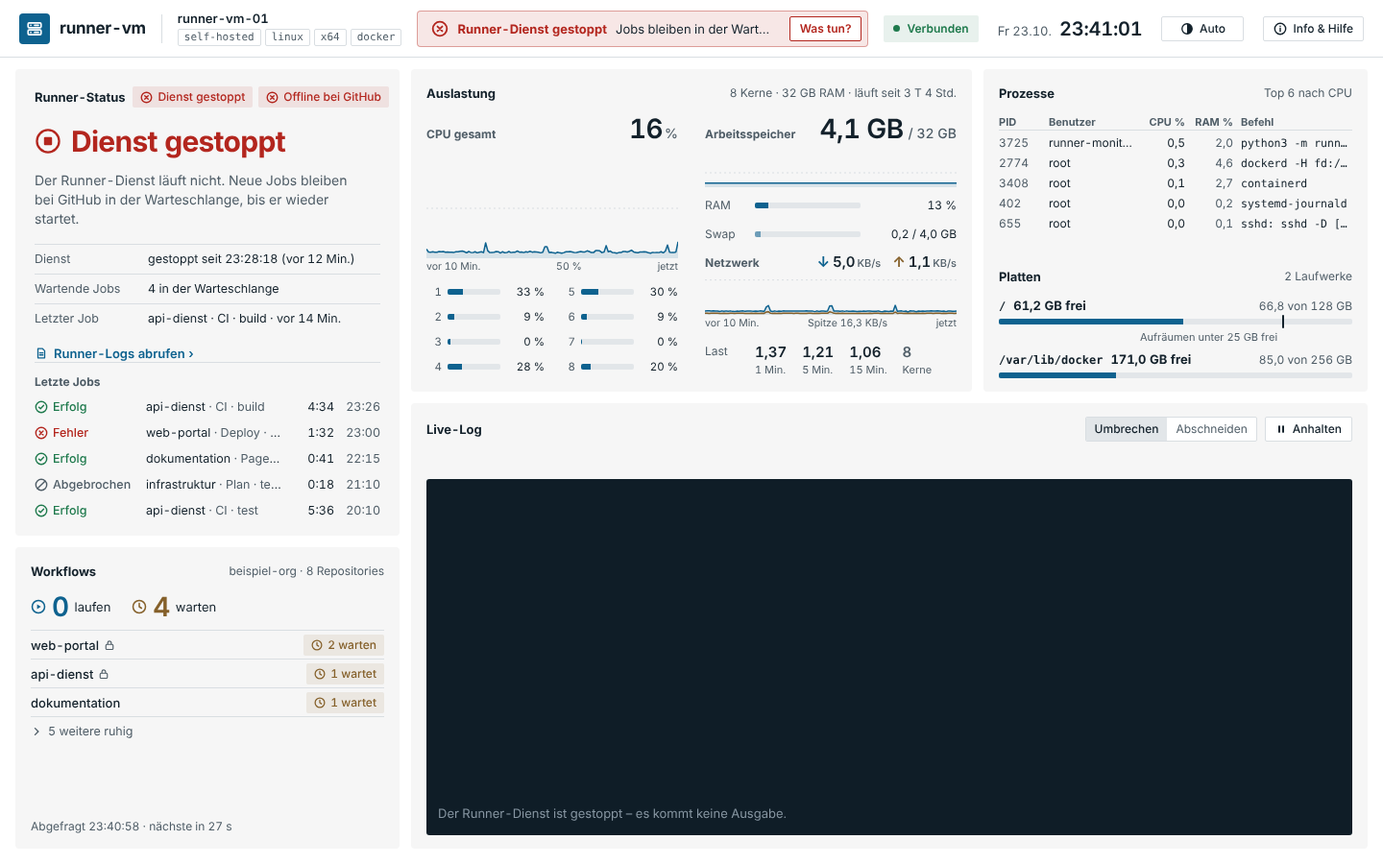
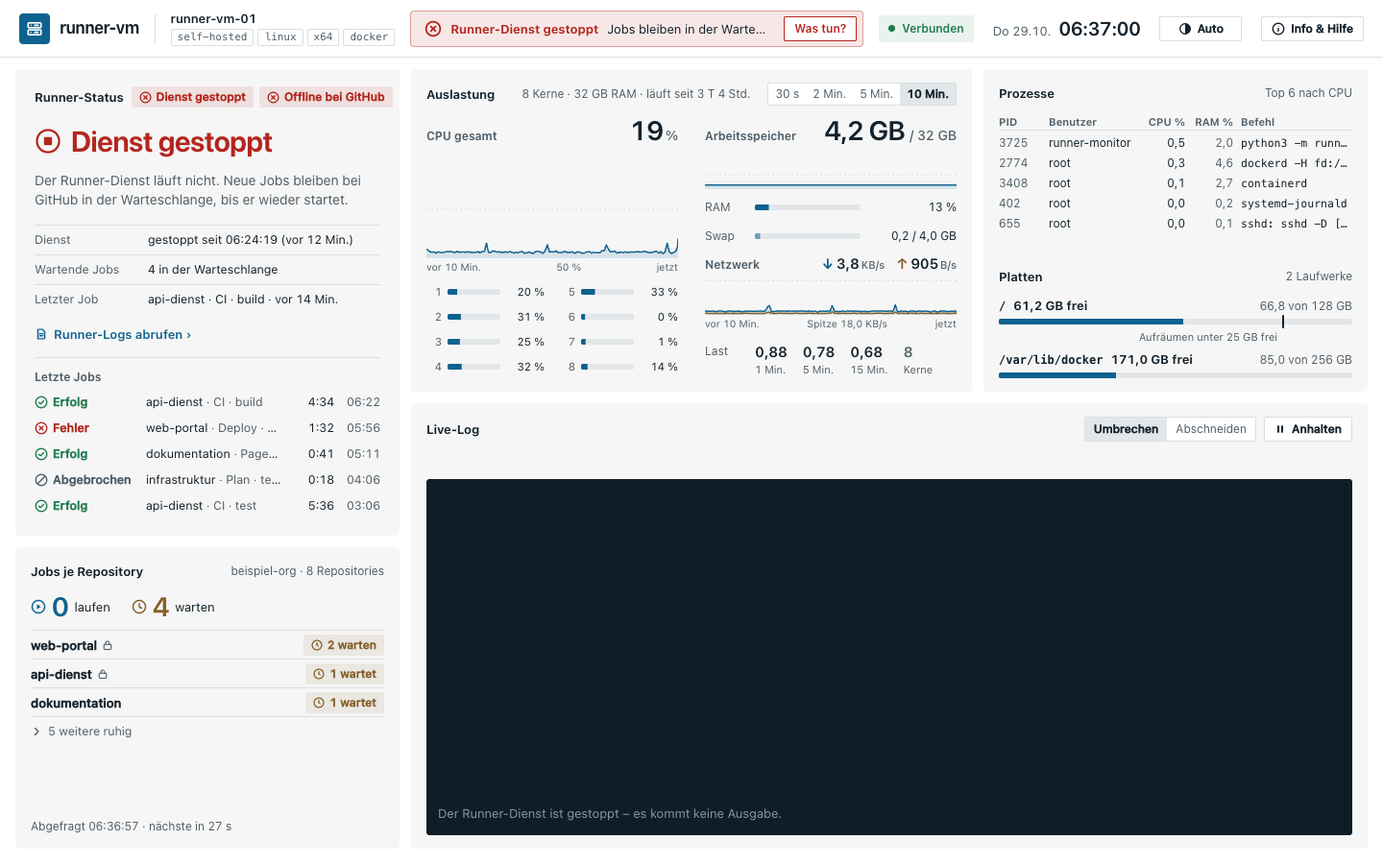
Handbuch und Bildschirmfotos auf Design 0.8.0 (#101)

diff --git a/entwickler-dashboard/daten.js b/entwickler-dashboard/daten.js
@@ -13,7 +13,7 @@
  *               Entscheidungen: "entschieden", "zurückgestellt", sonst offen.
  */
 window.RUNNER_MONITOR = {
-  stand: "29.10.2026 03:41",
+  stand: "29.10.2026 06:39",
 
   dienste: [
     { name: "Runner-Monitor lokal (Demo)", url: "http://127.0.0.1:8090/?demo", pruefen: "http://127.0.0.1:8090/api/health", gruppe: "Runner-Monitor" },
@@ -261,6 +261,7 @@ window.RUNNER_MONITOR = {
   ],
 
   verlauf: [
+    { datum: "29.10.2026 06:39", text: "#101 umgesetzt (PR offen): Handbuch (Kapitel 1–4), Funktionsweise (Stand) und docs/design/README.md auf Design 0.8.0; vier neue Bildschirmfotos (mehrere Runner mit Zeitraum, Grundüberwachung, Info › Runner, Englisch), übrige neu aufgenommen; werkzeuge/bilder.mjs mit Sprachwahl je Seite." },
     { datum: "29.10.2026 03:41", text: "Review PR #125 (#120) eingearbeitet, rebased auf develop mit #121/#118: E-25 → E-26 umnummeriert; Fehlermeldung nach entferntem altem Token sagt „bereits entfernt – bitte erneut ausführen“; „Server nicht gefunden“ aus neuem Adapter-Feld ursache (kein-dienst | weiterleitung, Forgejo/Gitea/GitLab) statt Textvergleich, Test gegen lokale Fake-Server bindet die Felder; Runner weder erkannt noch in runner.json: klarer Hinweis und Rückfrage statt stillem Rückfall auf „nur Token“; Hinweis auf wartenden Auftrag runner-zuordnung; Doku zu altem Token ohne Server und zu GitLab im Sammler (#115) angepasst." },
     { datum: "29.10.2026 03:23", text: "#120 umgesetzt (PR offen): einrichten.sh zugang <runner> fragt für Forgejo, Gitea und GitLab Server (https; http nur nach Rückfrage → http_erlaubt), Organisation (nicht GitLab) und Token ab; Prüfen und Schreiben in runner_monitor/anbieter/anbindung.py mit den Regeln der Erkennung (runner.json atomar, nur root, kein Symlink, andere Felder bleiben; Token über stdin nach zugang/<id>.token). Neue Adresse = neues Token Pflicht, Reihenfolge altes Token löschen → runner.json → neues Token, Sammler ruht dabei; Stand „Grundüberwachung“ auf Rückfrage aufheben; danach Verbindungsprüfung über den Adapter (ok/Token ungültig/keine Rechte/nicht erreichbar/Server nicht gefunden, Frist 40 s). E-26 (bitte bestätigen), Sicherheitsbericht S-ZUGANG-01, Doku EINRICHTUNG/FUNKTIONSWEISE, tests/test_anbindung.py; Bash-Ablauf zusätzlich in einem Pseudo-Terminal durchgespielt." },
     { datum: "29.10.2026 03:39", text: "Review PR #124 (#97, #123) eingearbeitet, rebased auf develop mit #118 und #121 (Meldungs-Titel je Dienst von #121 übernommen, Zustand „ausstehend“ in Verbindungen): Reiter und „+N“-Liste stufen einen veralteten Stand wie die Karte auf „Unbekannt“ herab (RUNNER.zustand mit Zeitpunkt); Offline-Meldung ohne Präfix nennt den Dienst; Token „hinterlegt“ ohne „nur lesend“, „Rechte (nötig)“; Demo ohne erfundenes Ablaufdatum für Forgejo/Gitea/GitLab; Platzhalter in Befehlen sichtbar (RUNNER, SERVER, ORGANISATION, UNIT) statt spitzer Klammern oder beispiel-org; Runner-ID-Regel wie einrichten.sh; Anrede neutral; Dienstname in runnerVersion nicht doppelt; Doku (Alter des Stands im Dashboard-Kapitel, Wieder anzeigen)." },

diff --git a/docs/design/README.md b/docs/design/README.md
@@ -1,31 +1,46 @@
 # Design
 
-**Stand: 23.10.2026 · Design v0.4.0**
+**Stand: 29.10.2026 · Design v0.8.0**
 
-**Design v0.4.0** – aus Claude Design, Grundlage für Version 0.4.0. Die Dateien liegen in
-[`v0.4.0/`](v0.4.0/) (`*.dc.html`, Design-Canvas-Format, mit `support.js`), die Umsetzungshinweise
-in [`v0.4.0/Umsetzung 0.4.0.md`](v0.4.0/Umsetzung%200.4.0.md):
+**Design v0.8.0** – aus Claude Design, Grundlage für Version 0.8.0 (anbieterunabhängig, mehrere Runner).
+Die Dateien liegen in [`v0.8.0/`](v0.8.0/) (`*.dc.html`, Design-Canvas-Format, mit `support.js`), die
+Umsetzungshinweise in [`v0.8.0/README.md`](v0.8.0/README.md) (Handoff), die Wörterbuchvorlage in `i18n-0.8.0.js`:
 
 | Datei | Inhalt |
 |---|---|
-| `Runner-Monitor 0.4.0.dc.html` | Übersicht aller Bildschirme mit Notiz „Was ist neu“ und Optionen (Zustand, GitHub, Netzwerk-Variante, Kerne, Log, Update, Info-Blatt, **Schrittliste**, **Verlaufslänge**) |
-| `Main 0.4.0.dc.html` | Dashboard als Live-Prototyp inkl. Info & Hilfe |
-| `Setup-Skript 0.4.0.dc.html` | Ausgabe von `einrichten.sh` |
-| `Setup-Web 0.4.0.dc.html` | Einrichtung im Browser, Schritte 1–4 |
-| `Login 0.4.0.dc.html` | Anmeldung |
-| `ds/bamberger-it-services/tokens.json` | Designsystem „Bamberger IT Services“ |
+| `Runner-Monitor 0.8.0.dc.html` | Übersicht aller Bildschirme mit Notiz „Design 0.8.0 · was ist neu“ und Optionen (Zustand, Runner-Anzahl, gewählter Runner, Sprache, Thema) |
+| `Main 0.8.0.dc.html` | Dashboard als Live-Prototyp inkl. Info & Hilfe (Runner, Verbindungen, Sprache, Fehler/Idee) |
+| `Dashboard-Varianten 0.8.0.dc.html` | Varianten A/B/C für mehrere Runner (gewählt: C, Reiter) |
+| `Setup-Skript 0.8.0.dc.html` | Ausgabe von `einrichten.sh` mit „Runner auf dieser VM“ |
+| `Setup-Web 0.8.0.dc.html` | Einrichtung im Browser, fünf Schritte (Code, Zugang, Runner, Anbinden, Fertig) |
+| `Login 0.8.0.dc.html` | Anmeldung |
+| `i18n-0.8.0.js` | Wörterbuch Deutsch → Englisch |
 
-Öffnen: die `.dc.html` im Browser (lädt React von unpkg.com). Ältere Fassungen liegen nur noch in
+Design v0.4.0 (Grundlage bis Version 0.7.0) liegt weiter in [`v0.4.0/`](v0.4.0/); alles, was 0.8.0 nicht
+ändert (Raster, Karten, Pillen, kv-Zeilen, Meldungen, Info-Blatt-Stil), gilt unverändert. Ältere Fassungen liegen nur noch in
 den Tags: Design v0.3.0 in [`v0.3.1`](https://github.com/Bamberger-IT-Services/Self-Hosted-Github-Runner-Monitor/tree/v0.3.1/docs/design/v0.3.0),
 Design v1 in [`v0.1.2`](https://github.com/Bamberger-IT-Services/Self-Hosted-Github-Runner-Monitor/tree/v0.1.2/docs/design/v1).
 Bildschirmfotos aus dem Betrieb, die zum Entwurf gehörten, liegen bewusst nicht im Repository
-(öffentlich, echte Daten).
+(öffentlich, echte Daten); die Handbuchbilder entstehen aus Demo-Daten (`node werkzeuge/bilder.mjs`).
 
 Grundlage: Designsystem „Bamberger IT Services“ (Farben, Radien), Schrift = Systemschrift,
 Bewegung nach Apple-Prinzipien (kritisch gedämpfte Federn, `prefers-reduced-motion`).
 Farben und Maße: [TOKENS.md](TOKENS.md).
 
-Planung nach Anweisung 08: Epic [#42 „Design v0.4.0 umsetzen“](https://github.com/Bamberger-IT-Services/Self-Hosted-Github-Runner-Monitor/issues/42).
+Planung nach Anweisung 08: Epic #100 „Design 0.8.0 umsetzen“ (Teil-Issues #89–#99, #101).
+
+## Was 0.8.0 gegenüber 0.4.0 ändert
+
+1. **Verlauf mit festen Zeitfenstern** (#89): Zeitraum-Umschalter 30 s / 2 / 5 / 10 Min., Eimer an der absoluten Sekunde.
+2. **Sprache** (#90): Automatisch / Deutsch / English.
+3. **Runner-Erkennung** (#91) und **Anbieter-Adapter** mit Fähigkeiten (#92, #93, #99, #115): GitHub, Forgejo, Gitea, GitLab, unbekannt.
+4. **Dashboard mit mehreren Runnern** (#94): Reiter an der Runner-Spalte, „+N“, Meldungen mit Runner.
+5. **Grundüberwachung und „teilweise“** (#95): Journal-Log, „Jobs nicht verfügbar“, „Schritte nicht verfügbar“.
+6. **Einrichtung im Browser** in fünf Schritten (#96) und **Info & Hilfe** 890 px zweispaltig mit Runner und Verbindungen (#97, #123).
+7. **Fehler/Idee per E-Mail** statt GitHub-Issues (#98).
+8. **Handbuch, Funktionsweise und Bildschirmfotos** auf diesen Stand (#101); Einrichtungsskript `einrichten.sh zugang` (#120, nicht gezeichnet).
+
+Was 0.4.0 gegenüber 0.3.0 ändert, steht unten und gilt weiter.
 
 ## Was 0.4.0 gegenüber 0.3.0 ändert
 
@@ -75,21 +90,22 @@ Was 0.3.0 gegenüber v1 geändert hat, steht unten und gilt weiter.
 | Job: Schritt aus einer Quelle, „3 von –“, gestrichelter Rest, Log „Schritt 3/–“ | `runner_monitor/zustand.py`, `web/dashboard.js` | umgesetzt | #44 (PR #48) |
 | Versionsnummern | Doku, Release | umgesetzt | #45 |
 
-Abgleich mit Design 0.8.0 (Verlauf, Runner-Erkennung):
+Abgleich mit Design 0.8.0 (alle Bildschirme; Stand 29.10.2026, alle Teil-Issues #89–#99, #101 umgesetzt):
 
 | Bildschirm (0.8.0) | Code | Stand | Bemerkung |
 |---|---|---|---|
 | Auslastung: Zeitraum-Umschalter 30 s / 2 / 5 / 10 Min., feste Eimergrenzen, Netz-Maximum, Skala nach Spitze im Zeitraum, aria-label mit Zeitraum | `web/verlauf.js`, `web/dashboard.*`, `web/stil.css`, `web/i18n.js`, `tests/js/verlauf.test.mjs` | umgesetzt | #89; Gruppierung nicht mehr vom Listenende; Wahl in `localStorage["runner-monitor.zeitraum"]` |
 | Info › „Fehler gefunden oder Idee?“: keine GitHub-Issues mehr, `mailto:` an info@bamberger-it-services.de (Fehler melden, Idee vorschlagen) mit Betreff, Vorlage und automatischen Angaben, Hinweis ohne Tokens/Passwörter; „Fehler melden“ beim fehlgeschlagenen Update | `web/mail.js`, `web/dashboard.js`, `web/i18n.js`, `tests/js/mail.test.mjs` | umgesetzt | #98; Sprache der Vorlage folgt der Oberfläche; Abweichungen: „Runner“/„Gewählt“ zeigen nur den einen erkannten Runner (Zustand Job/Bereit/Gestoppt/Offline), bis die Mehrfach-Runner-Ansicht da ist; die Update-Mail enthält zusätzlich die Zeile „Meldung:“ des Aktualisierers und keinen Schlusssatz (wie im Entwurf); Token-Muster werden aus den Angaben entfernt; Knopf „Fehler melden“ beim Update-Fehler als `a.knopf` in der Zeile neben „Erneut versuchen“ (Zeilenklasse `.upd-aktion.zeile` statt Inline-Stil, wegen CSP); Issue-Vorlagen für Fehler/Ideen entfernt (E-15) |
 | 6. Einrichtungsskript: Abschnitt „Runner auf dieser VM“ (mehrere Runner, kein Runner); Datenmodell › Erkennung | `runner_monitor/erkennung.py`, `runner_monitor/sammler.py`, `einrichten.sh`, `tests/test_erkennung.py` | umgesetzt | #91; Spalten wie im Design. Abweichung: die Hinweiszeile im Design ist 82 Zeichen lang und wird bei 80 umbrochen. Zusätzlich `!` für „wahrscheinlich“ mit Grund und „Dienst gestoppt“. Spalte „Version“: bei GitHub die Runner-, sonst die Server-Version, ohne Server-Version „–“. Fund-Format wie im README plus `aktiv`, `grund`. `runner.json` schreibt seit #96 der Sammler auf Auftrag der Einrichtung (Info › Runner: #97) |
-| 2. „Nicht verfügbar“ ehrlich zeigen (Fähigkeiten); Datenmodell › Adapter, Momentaufnahme `/api/zustand`, Zugangsdaten je Runner | `runner_monitor/anbieter/` (`__init__.py`, `github.py`, `token.py`), `runner_monitor/zustand.py`, `runner_monitor/server.py`, `runner_monitor/sammler.py`, `einrichten.sh`, `web/demo.js`, `tests/test_anbieter.py` | Backend umgesetzt, Oberfläche folgt | #92, E-19, ADR-0006; Format additiv: `vm`, `runner[]` (mit `faehig`, `status`, `job.schritt {nr, von|null, name}`, `letzteJobs`, `jobsJeRepository`, `log {art, unit}` ohne Pfade) und `meldungen[]` (mit `runner`-ID) neben den bisherigen Bereichen, die Oberfläche stellt mit #94 um. Abweichungen: `/api/zustand` gab es vorher nicht (nur die Momentaufnahme in `/events`), jetzt als `GET` ohne Live-Log; Meldungen ohne Texte (Art und Werte, Texte im Browser), Meldungen zu Verbindung und Update bleiben im Browser; Token-Datei `zugang/<id>.token`, alter Ort `github-token` bleibt als Rückfall bis #94/#96; `einrichten.sh zugang <runner>` ohne Angabe zeigt die erkannten Runner |
-| 5. Einrichtung › Schritt 4 „Anbinden“ (GitLab: Server, Token `read_api`); Datenmodell › Adapter `gitlab.py` | `runner_monitor/anbieter/gitlab.py`, `runner_monitor/erkennung.py` (Fähigkeiten), `docs/EINRICHTUNG.md`, `docs/runbooks/gitlab-nicht-erreichbar.md`, `tests/test_gitlab.py` | Backend umgesetzt, Oberfläche folgt | #99; Fähigkeiten `status`, `jobs`, `logs`, nicht `schritte` (die GitLab-API hat keine Schrittliste) und keine wartenden Jobs (`wartetUnbekannt`). Der Sammler ruft den Adapter mit #94/#96 auf; die Eingabe von Server und Token im Browser baut #96, bis dahin `einrichten.sh zugang`. Einstufung bleibt „teil“ und `FAEHIG[gitlab]` Grundüberwachung (E-20), bis die Anbindung da ist und die Unsicherheiten (Rollen für `/runners`, Feld `project.name`) gegen einen echten GitLab-Server bestätigt sind (FUNKTIONSWEISE › GitLab-Adapter) |
-| 1. Dashboard mit mehreren Runnern (Variante C): Reiter an der Runner-Spalte, „+N“ ab 4 Runnern, Wahl in `localStorage["runner-monitor.runner"]`, Dienst-Plakette, Runner-Name im Live-Log, Meldungen mit Runner und „Anzeigen“; Kartentitel „Jobs je Repository“ | `web/runner.js`, `web/dashboard.*`, `web/stil.css`, `web/demo.js`, `web/i18n.js`, `tests/js/runner.test.mjs`, `tests/js/demo.test.mjs` | umgesetzt (Teil) | #94; im Browser gegen `Main 0.8.0.dc.html` geprüft (1440 × 900, hell und dunkel, 1, 3 und 5 Runner, Tastatur). Abweichungen: Tab-Muster mit Wahl bei Fokuswechsel (Pfeile), `+N` als eigener Knopf neben der Tab-Liste; Runner ohne Jobs und Journal je Runner seit #95 (nächste Zeile); Texte „Online/Offline bei {Dienst}“ nach dem Dienst des Runners |
+| 2. „Nicht verfügbar“ ehrlich zeigen (Fähigkeiten); Datenmodell › Adapter, Momentaufnahme `/api/zustand`, Zugangsdaten je Runner | `runner_monitor/anbieter/` (`__init__.py`, `github.py`, `token.py`), `runner_monitor/zustand.py`, `runner_monitor/server.py`, `runner_monitor/sammler.py`, `einrichten.sh`, `web/demo.js`, `tests/test_anbieter.py` | umgesetzt (Oberfläche: #94, #95, #97) | #92, E-19, ADR-0006; Format additiv: `vm`, `runner[]` (mit `faehig`, `status`, `job.schritt {nr, von|null, name}`, `letzteJobs`, `jobsJeRepository`, `log {art, unit}` ohne Pfade) und `meldungen[]` (mit `runner`-ID) neben den bisherigen Bereichen, die Oberfläche stellt mit #94 um. Abweichungen: `/api/zustand` gab es vorher nicht (nur die Momentaufnahme in `/events`), jetzt als `GET` ohne Live-Log; Meldungen ohne Texte (Art und Werte, Texte im Browser), Meldungen zu Verbindung und Update bleiben im Browser; Token-Datei `zugang/<id>.token`, alter Ort `github-token` bleibt als Rückfall bis #94/#96; `einrichten.sh zugang <runner>` ohne Angabe zeigt die erkannten Runner |
+| 5. Einrichtung › Schritt 4 „Anbinden“ (GitLab: Server, Token `read_api`); Datenmodell › Adapter `gitlab.py` | `runner_monitor/anbieter/gitlab.py`, `runner_monitor/erkennung.py` (Fähigkeiten), `docs/EINRICHTUNG.md`, `docs/runbooks/gitlab-nicht-erreichbar.md`, `tests/test_gitlab.py` | umgesetzt (Anbindung im Browser: nur Befehl `einrichten.sh zugang`, E-22) | #99; Fähigkeiten `status`, `jobs`, `logs`, nicht `schritte` (die GitLab-API hat keine Schrittliste) und keine wartenden Jobs (`wartetUnbekannt`). Der Sammler ruft den Adapter mit #94/#96 auf; die Eingabe von Server und Token im Browser baut #96, bis dahin `einrichten.sh zugang`. Einstufung bleibt „teil“ und `FAEHIG[gitlab]` Grundüberwachung (E-20), bis die Anbindung da ist und die Unsicherheiten (Rollen für `/runners`, Feld `project.name`) gegen einen echten GitLab-Server bestätigt sind (FUNKTIONSWEISE › GitLab-Adapter) |
+| 1. Dashboard mit mehreren Runnern (Variante C): Reiter an der Runner-Spalte, „+N“ ab 4 Runnern, Wahl in `localStorage["runner-monitor.runner"]`, Dienst-Plakette, Runner-Name im Live-Log, Meldungen mit Runner und „Anzeigen“; Kartentitel „Jobs je Repository“ | `web/runner.js`, `web/dashboard.*`, `web/stil.css`, `web/demo.js`, `web/i18n.js`, `tests/js/runner.test.mjs`, `tests/js/demo.test.mjs` | umgesetzt | #94; im Browser gegen `Main 0.8.0.dc.html` geprüft (1440 × 900, hell und dunkel, 1, 3 und 5 Runner, Tastatur). Abweichungen: Tab-Muster mit Wahl bei Fokuswechsel (Pfeile), `+N` als eigener Knopf neben der Tab-Liste; Runner ohne Jobs und Journal je Runner seit #95 (nächste Zeile); Texte „Online/Offline bei {Dienst}“ nach dem Dienst des Runners |
 | 2. „Nicht verfügbar“ ehrlich zeigen – Oberfläche: Grundüberwachung (Dienst aktiv/gestoppt, kv Dienst · aktiv seit, Neustarts, Letzter Stopp, ohne „Online bei …“ und „Letzte Jobs“; „Jobs nicht verfügbar“ mit „Runner zuordnen ›“; Live-Log = Journal der Unit mit Chip „Journal · <unit>“, ohne Trenner) und „teilweise“ („Schritte nicht verfügbar“, keine Trenner, kein Schritt-Chip) | `runner_monitor/journal.py`, `runner_monitor/runner.py` (`NRestarts`, `InactiveEnterTimestamp`), `runner_monitor/anbieter/__init__.py`, `runner_monitor/zustand.py`, `runner_monitor/server.py` (`/events?journal=<runner-id>`), `web/runner.js`, `web/dashboard.js`, `web/stil.css`, `web/demo.js`, `web/i18n.js`, `tests/test_journal.py`, `tests/js/runner.test.mjs`, `tests/js/demo.test.mjs` | umgesetzt | #95; im Browser gegen „buildagent · Grundüberwachung“, „Grundüberwachung · dunkel“ und „Teilweise · Job ohne Schritte“ geprüft (1440 × 900, hell und dunkel; Kartenmaße gleich dem Entwurf). Steuerung nur über `faehig{…}` (Test). Abweichungen: Neustarts aus `NRestarts` („keine“ / „{n} automatisch“ – zählt automatische Neustarts seit dem letzten Start von Hand, nicht „in den letzten 7 Tagen“ wie im Entwurf, E-24); Ereigniszeile im Journal-Modus zeigt nur „Dienst gestartet/gestoppt“ aus dem Journal (der Entwurf zeigt dort die Job-Ereignisse des GitHub-Runners); „Runner zuordnen ›“ öffnet vorerst Info & Hilfe (Zuordnung ändern: #97); ohne Unit „Kein Dienst“ auch im Reiter (statt „Unbekannt“, Review #114); Log-Datei aus `runner.json` noch nicht angezeigt (Hinweis) |
-| Spielplatz › Notiz „Fähigkeiten je Anbieter“; 2. „Nicht verfügbar“ (teilweise); 5. Einrichtung › Schritt 4 (Forgejo/Gitea: Token-Rechte); Datenmodell › `forgejo.py` für Forgejo und Gitea | `runner_monitor/anbieter/forgejo.py`, `runner_monitor/anbieter/__init__.py`, `runner_monitor/erkennung.py`, `runner_monitor/sammler.py`, `runner_monitor/zustand.py`, `tests/test_forgejo.py`, `tests/daten/`, `docs/FUNKTIONSWEISE.md`, `docs/EINRICHTUNG.md` | Backend umgesetzt, Oberfläche: Zustände „Job nicht zuordenbar“ und „Zustand unbekannt“ | #93, E-21, E-23; ausgeliefert weiter „teil“/Grundüberwachung bis #96/#115; API-Prüfung an Forgejo 17.0.1 und nach OpenAPI (Forgejo 16, Gitea), Tabelle in FUNKTIONSWEISE.md › „Fähigkeiten je Anbieter“ und in der Notiz des Spielplatzes ausgefüllt. Abweichungen: Schritt 4 im Browser gibt es noch nicht (#96/#97) – Server, Organisation und Token setzt `einrichten.sh zugang` (seit #120, vorher von Hand in `runner.json`); genaue Token-Rechte `read:repository` + `read:organization` (Runner-Liste nur für Besitzer der Organisation) statt „repository und organization Lesen“; Live-Log weiter aus dem Journal (ohne Schritt-Trenner), obwohl die API Logs je Schritt liefert (eigenes Issue); „Updates“ bleibt nicht verfügbar |
+| Spielplatz › Notiz „Fähigkeiten je Anbieter“; 2. „Nicht verfügbar“ (teilweise); 5. Einrichtung › Schritt 4 (Forgejo/Gitea: Token-Rechte); Datenmodell › `forgejo.py` für Forgejo und Gitea | `runner_monitor/anbieter/forgejo.py`, `runner_monitor/anbieter/__init__.py`, `runner_monitor/erkennung.py`, `runner_monitor/sammler.py`, `runner_monitor/zustand.py`, `tests/test_forgejo.py`, `tests/daten/`, `docs/FUNKTIONSWEISE.md`, `docs/EINRICHTUNG.md` | umgesetzt (Oberfläche: Zustände „Job nicht zuordenbar“ und „Zustand unbekannt“) | #93, E-21, E-23; ausgeliefert weiter „teil“/Grundüberwachung bis #96/#115; API-Prüfung an Forgejo 17.0.1 und nach OpenAPI (Forgejo 16, Gitea), Tabelle in FUNKTIONSWEISE.md › „Fähigkeiten je Anbieter“ und in der Notiz des Spielplatzes ausgefüllt. Abweichungen: Schritt 4 im Browser gibt es noch nicht (#96/#97) – Server, Organisation und Token setzt `einrichten.sh zugang` (seit #120, vorher von Hand in `runner.json`); genaue Token-Rechte `read:repository` + `read:organization` (Runner-Liste nur für Besitzer der Organisation) statt „repository und organization Lesen“; Live-Log weiter aus dem Journal (ohne Schritt-Trenner), obwohl die API Logs je Schritt liefert (eigenes Issue); „Updates“ bleibt nicht verfügbar |
 | 5. Einrichtung im Browser: Stepper Code → Zugang → Runner → Anbinden → Fertig (Kreise 24 px, Linien 32 px), Karte 880 px mit `.koerper`; Schritt 3 „Runner“ (Fundkarten, Begründung, Übernehmen / Grundüberwachung / Ignorieren / Zuordnen, Leerzustand mit drei Wegen, „Neu erkennen“, Fuß mit Zusammenfassung); Schritt 4 „Anbinden“ (Block je Runner, „Verbindung prüfen“ mit Ergebnisliste, Anleitung rechts, ein Runner ohne Rahmen); Schritt 5 „Fertig“ mit Stand je Runner; 390 px; Datenmodell › POST-Endpunkt für Zuordnung/Ignorieren | `web/einrichtung.*`, `web/einrichtung-runner.js`, `web/stil.css`, `web/i18n.js`, `runner_monitor/einrichtung.py`, `runner_monitor/server.py`, `runner_monitor/sammler.py`, `werkzeuge/bilder.mjs`, `tests/test_einrichtung_runner.py`, `tests/js/einrichtung.test.mjs` | umgesetzt | #96, E-22; im Browser gegen `Setup-Web 0.8.0.dc.html` geprüft (1440 × 900 und 390 px, hell und dunkel, Deutsch und Englisch). Abweichungen: Forgejo/Gitea/GitLab-Blöcke ohne Token- und Organisationsfeld – Server nur als Vorschlag (lesend) und Befehl `einrichten.sh zugang <runner>` (E-22); Token-Feld nur für den GitHub-Runner des Monitors; „Verbindung prüfen“ für einen angebundenen Forgejo-/Gitea-Runner (Server und Organisation in `runner.json`, #93) über den Sammler und `anbieter.json`, sonst ehrlich „Server und Organisation fehlen“ bzw. „noch nicht verfügbar“; `einrichten.sh zugang` setzt seit #120 auch Server und Organisation; Forgejo/Gitea/GitLab erscheinen bis zu ihrer Anbindung als „erkannt, noch nicht unterstützt“ (E-16, E-20), die Entwurfsansicht mit Forgejo-Block wurde mit einem nachgestellten Fund geprüft; Merkmale der Begründung kommen deutsch vom Server und werden (wie Log-Ausgabe) nicht übersetzt; Hinweis in „Fertig“ verweist auf die VM statt auf „Info & Hilfe › Runner“ (folgt mit #97); im Fuß bei 390 px steht die Zusammenfassung über den Knöpfen, damit „Weiter“ die Breite füllt; Codeblock mit den Log-Tokens (`--log-bg`) statt fester Farben; Server in der Fundkarte bei GitHub ohne `https://` wie im Entwurf, sonst vollständig; Link „Wie ein Anbieter ergänzt wird ↗“ führt zu `docs/FUNKTIONSWEISE.md` |
-| 1. Dashboard mit mehreren Runnern › Meldungen mit Runner; 2. „Nicht verfügbar“ (GitLab ohne Schritte); Datenmodell › Sammler fragt alle Adapter ab | `runner_monitor/sammler.py`, `runner_monitor/anbieter/gitlab.py`, `runner_monitor/anbieter/__init__.py`, `runner_monitor/zustand.py`, `web/dashboard.js` (nur Meldungen), `web/i18n.js`, `einrichten.sh`, `tests/test_sammler_anbieter.py` | Backend umgesetzt, Oberfläche: Meldungstexte je Dienst | #115, E-20, E-23; je Runner ein Faden (höchstens 4 zugleich, Frist je Runde), GitLab im Sammler. Abweichung: das Design zeigt Meldungen nur für GitHub – für Forgejo, Gitea und GitLab steht der Dienst im Titel („GitLab nicht erreichbar“, „Forgejo-Token ungültig oder abgelaufen“), englisch analog, eigene Texte (nicht aus `i18n-0.8.0.js`). Ausgeliefert weiter „teil“/Grundüberwachung, bis #96 die Anbindung in der Einrichtung bringt (dann FAEHIG/EINSTUFUNG anheben, Gitea erst nach Prüfung an einem echten Server) |
+| 1. Dashboard mit mehreren Runnern › Meldungen mit Runner; 2. „Nicht verfügbar“ (GitLab ohne Schritte); Datenmodell › Sammler fragt alle Adapter ab | `runner_monitor/sammler.py`, `runner_monitor/anbieter/gitlab.py`, `runner_monitor/anbieter/__init__.py`, `runner_monitor/zustand.py`, `web/dashboard.js` (nur Meldungen), `web/i18n.js`, `einrichten.sh`, `tests/test_sammler_anbieter.py` | umgesetzt (Meldungstexte je Dienst) | #115, E-20, E-23; je Runner ein Faden (höchstens 4 zugleich, Frist je Runde), GitLab im Sammler. Abweichung: das Design zeigt Meldungen nur für GitHub – für Forgejo, Gitea und GitLab steht der Dienst im Titel („GitLab nicht erreichbar“, „Forgejo-Token ungültig oder abgelaufen“), englisch analog, eigene Texte (nicht aus `i18n-0.8.0.js`). Ausgeliefert weiter „teil“/Grundüberwachung, bis #96 die Anbindung in der Einrichtung bringt (dann FAEHIG/EINSTUFUNG anheben, Gitea erst nach Prüfung an einem echten Server) |
 | 4. Info & Hilfe: Blatt 890 px, innen `minmax(0,1.618fr) minmax(0,1fr)` mit 32 px Abstand; links Runner (Kopf + „Neu erkennen“, Statuszeile, je Runner Punkt/Name/Plakette/Pille/kv, „Zuordnung ändern“, „Ignorieren“/„Wieder anzeigen“, „Zugangsdaten ändern“ nur als Befehl, Hinweisleiste bei neuem Fund), Verbindungen (je Dienst), Was tun, wenn … (anbieterneutral); rechts Updates, Darstellung, Über diesen Monitor, Fehler/Idee; #123: „Was tun?“, Kartenfuß und leerer Zustand je Dienst, Alter des letzten guten Stands | `web/info.js`, `web/runner.js`, `web/dashboard.*`, `web/stil.css`, `web/demo.js`, `web/i18n.js`, `tests/js/info.test.mjs`, `tests/js/runner.test.mjs`, `tests/js/demo.test.mjs` | umgesetzt | #97, #123; im Browser gegen `Main 0.8.0.dc.html` geprüft (1440 × 900, hell und dunkel, Deutsch und Englisch, `?demo&runner=3&forgejo=angebunden`). Abweichungen: Zugangsdaten und Server/Organisation nie über die Oberfläche (E-18, E-22), „Zugangsdaten ändern“ zeigt nur Befehl, Kopieren und Link; „Übernehmen“ bei einem neuen Fund ändert nichts in `runner.json` (der Fund steht schon in der Liste) und öffnet „Zugangsdaten ändern“; Verbindungen zeigen nur Felder, die der Zustand hergibt (Forgejo/Gitea: „vom Server nicht gemeldet“ statt „nicht begrenzt“, Ablauf „–“), Rechte als „Rechte (nötig)“ (was das Token braucht); Tokenzeile „hinterlegt“ ohne „nur lesend“ (nicht belegt); Demo ohne Ablaufdatum für Forgejo/Gitea/GitLab; Anleitungen mit der Unit des gewählten Runners und Prüfbefehlen je Dienst; Esc schließt zuerst ein offenes Formular; bei < 900 px eine Spalte; Hinweisleiste bei neuem Fund bricht bei 500 px Spaltenbreite um (Knöpfe rechts); Alter des letzten guten Stands nach 2 Min. als Hinweis, nach 10 Min. „Zustand unbekannt“ (nicht im Entwurf) |
+| Handbuch, Funktionsweise und Bildschirmfotos zu allen 0.8.0-Bildschirmen (Reiter, Zeitraum, Grundüberwachung, Info › Runner, Einrichtung 3–5, Englisch) | `docs/handbuch/`, `docs/handbuch/bilder/`, `docs/FUNKTIONSWEISE.md`, `werkzeuge/bilder.mjs` | umgesetzt | #101; Bilder aus Demo-Daten (`?demo&runner=3&gewaehlt=…`), nur Platzhalter. Nicht fotografiert: die Terminalausgabe von `einrichten.sh` (Beschreibung statt Bild), Einrichtung mit Forgejo-Block und Verbindungsprüfung gegen einen echten Server, Update-Fehler und `mailto:`-Vorlage im Mailprogramm (Texte im Handbuch beschrieben) |
 
 Abgleich mit Design 0.3.0 (gilt weiter):
 

diff --git a/docs/handbuch/02-dashboard.md b/docs/handbuch/02-dashboard.md
@@ -1,22 +1,46 @@
 # 2 Das Dashboard
 
-**Stand: 25.10.2026 · Version 0.7.0**
+**Stand: 29.10.2026 · Version 0.8.0 (in Arbeit)**
 
 ![Dashboard mit laufendem Job](bilder/dashboard-job.png)
 
 Eine Seite ohne Scrollen (1440 × 900 bis 1920 × 1080). Systemwerte kommen jede Sekunde,
-GitHub-Daten alle 30 Sekunden. Nichts lässt sich hier verändern – die Seite ist nur zum Anschauen.
+Daten der Anbieter (GitHub, Forgejo, Gitea, GitLab) alle 30 Sekunden. Nichts lässt sich hier verändern – die Seite ist nur zum Anschauen.
 
 ## Kopfzeile
 
-- links **Name der VM**, **Runner** und seine Labels
+- links **Name der VM**, **gewählter Runner** und seine Labels; bei mehreren Runnern steht die Dienst-Plakette (GitHub, Forgejo, Gitea, GitLab, unbekannt) als erstes Label
 - Mitte die wichtigste **Meldung** ([Kapitel 3](03-meldungen.md)), „+n weitere“, wenn es mehrere gibt
 - rechts **Verbunden** (grüner Punkt, Zeit der letzten Daten) oder **Getrennt**, Datum und Uhrzeit,
   Umschalter **Auto / Hell / Dunkel** und **Info**
 
+## Mehrere Runner
+
+Läuft mehr als ein Runner auf der VM (der Monitor erkennt sie selbst, [Kapitel 1](01-einrichtung-und-anmeldung.md)),
+stehen über „Runner-Status“ **Reiter**: je Runner Name, Zustandspunkt und Zustand als Text
+(Job läuft, Bereit, Gestoppt, Offline, bei Grundüberwachung „Dienst aktiv“). Ab vier Runnern zeigt
+die Leiste drei Reiter und **„+N“**; ein Klick darauf öffnet eine Liste der übrigen. Die Reiter lassen sich mit der
+Tastatur bedienen (Pfeiltasten, Tab).
+
+![Drei Runner: Reiter über „Runner-Status“, Auslastung mit Zeitraum 2 Min.](bilder/dashboard-mehrere-runner.png)
+
+- **Zum gewählten Runner** gehören „Runner-Status“, „Jobs je Repository“ und das Live-Log (neben dem Titel steht sein Name).
+- **Zur VM** gehören Auslastung, Prozesse und Platten – sie ändern sich beim Wechsel nicht.
+- Die Wahl merkt sich der Browser (`runner-monitor.runner`); mit einem Runner gibt es weder Reiter noch Bedienelemente.
+- Meldungen nennen den Runner („runner-vm-02: Dienst gestoppt“). Betrifft eine Meldung einen anderen als den gewählten Runner, wechselt **Anzeigen** zu ihm.
+
+### Grundüberwachung und „nicht verfügbar“
+
+Was ein Dienst liefert, richtet sich nach seinen Fähigkeiten (Status, Jobs, Schritte, Logs, Updates), nicht nach dem Namen.
+Für unbekannte oder noch nicht angebundene Dienste gilt die **Grundüberwachung**: „Dienst aktiv“ oder „Dienst gestoppt“,
+Neustarts und Journal der Unit als Live-Log (Chip „Journal · Unit“, ohne Schritt-Trenner). „Jobs je Repository“ zeigt „Jobs nicht verfügbar“
+mit „Runner zuordnen ›“, das Info-Blatt öffnet. Kennt ein Dienst Jobs, aber keine Schritte, steht „Schritte nicht verfügbar“ statt des Schrittbalkens.
+
+![Grundüberwachung für einen unbekannten Dienst; Info › Runner](bilder/dashboard-grundueberwachung.png)
+
 ## Runner-Status
 
-Das Wichtigste zuerst: groß der Zustand.
+Das Wichtigste zuerst: groß der Zustand (hier am Beispiel GitHub; bei Forgejo, Gitea und GitLab steht entsprechend „Online/Offline bei {Dienst}“).
 
 | Zustand | Bedeutung |
 |---|---|
@@ -36,9 +60,9 @@ Oben rechts zwei Plaketten: Dienst aktiv/gestoppt und Online/Offline bei GitHub
 
 Fällt die Abfrage bei einem Dienst aus, zeigt der Monitor den letzten guten Stand mit seinem Alter („Stand von 14:02:11 (vor 12 Min.)“). Nach zehn Minuten Ausfall steht in „Runner-Status“ „Zustand unbekannt“ statt eines Jobs, der angeblich noch läuft; derselbe Reiter über der Karte zeigt dann ebenfalls „Unbekannt“.
 
-## Workflows
+## Jobs je Repository
 
-Summe **läuft / wartet** über alle Repositories der Organisation, darunter nur die Repositories,
+Summe **läuft / wartet** über alle Repositories der Organisation bzw. des Servers, darunter nur die Repositories,
 in denen gerade etwas läuft oder wartet. „n weitere ruhig“ klappt die übrigen auf. Ein Schloss
 markiert private Repositories. Unten: Zeit der letzten Abfrage und der nächsten.
 
@@ -48,20 +72,24 @@ Ohne Token zeigt die Karte, wie man eines einrichtet:
 
 ## Auslastung
 
-CPU gesamt mit Verlauf der letzten 10 Minuten, jeder Kern als Balken, Arbeitsspeicher mit
+CPU gesamt mit Verlauf (Zeitraum wählbar, siehe unten), jeder Kern als Balken, Arbeitsspeicher mit
 Verlauf, RAM und Swap, **Netz** und Last (1, 5, 15 Minuten) im Vergleich zur Zahl der Kerne.
 Bei 16 und mehr Kernen werden die Balken schmaler.
 
-Die Verläufe füllen immer die ganze Breite. Sind noch keine 10 Minuten gemessen – etwa kurz nach
+**Zeitraum:** Rechts im Kopf der Karte wählt ein Umschalter **30 s · 2 Min. · 5 Min. · 10 Min.** (Standard 10 Min.) das Fenster aller Verläufe; die Wahl merkt der Browser (`runner-monitor.zeitraum`).
+Die Werte sind in feste Zeitfenster gruppiert (Eimer von 1 s bzw. 3 s und 5 s bei 5 und 10 Min.), deren Grenzen an der Uhrzeit hängen: Die Kurve wandert ruhig nach links,
+nur der rechte Rand ändert sich. CPU, RAM und Last zeigen den Mittelwert je Eimer, das Netz die Spitze, damit kurze Lastspitzen sichtbar bleiben.
+Beschriftung der Diagramme für Screenreader nennt den Zeitraum („CPU-Verlauf der letzten 2 Minuten“).
+
+Die Verläufe füllen immer die ganze Breite. Sind noch keine 10 Minuten (bzw. der gewählte Zeitraum) gemessen – etwa kurz nach
 einem Update –, steht links unter dem Verlauf, seit wann gemessen wird („seit 14:02“), sonst
-„vor 10 Min.“. Der Monitor sichert den Verlauf alle 10 Sekunden; nach einem kurzen Neustart (Update,
+„vor 10 Min.“ (oder „vor 30 s“, „vor 2 Min.“, „vor 5 Min.“). Der Monitor sichert den Verlauf alle 10 Sekunden; nach einem kurzen Neustart (Update,
 `systemctl restart`) geht es nahtlos weiter.
 
 ![Kurz nach einem Neustart: „seit hh:mm“ unter den Verläufen, Schritt „3 von –“](bilder/dashboard-neustart.png)
 
 **Netzwerk** (eigener Block unter RAM und Swap) zeigt, was die VM gerade empfängt (↓) und sendet
-(↑), summiert über alle echten Netzwerkschnittstellen. Darunter der Verlauf der letzten
-10 Minuten: empfangen als blaue Fläche, gesendet als goldene Linie; die Skala richtet sich nach
+(↑), summiert über alle echten Netzwerkschnittstellen. Darunter der Verlauf im gewählten Zeitraum: empfangen als blaue Fläche, gesendet als goldene Linie; die Skala richtet sich nach
 der Spitze im Fenster (mindestens 64 KB/s), die unter dem Verlauf steht. Verkehr von Docker-
 Containern und VPN-Tunneln steckt schon in der echten Schnittstelle und wird nicht doppelt
 gezählt. Einheiten dezimal: 1 MB/s = 1 000 000 Byte je Sekunde (≈ 8 Mbit/s). Viel Empfang
@@ -81,7 +109,7 @@ Teil über der Schwelle wird orange.
 
 ## Live-Log
 
-- Oben die letzten **Ereignisse** (Job gestartet, beendet mit Ergebnis und Dauer, Dienst gestoppt).
+- Oben die letzten **Ereignisse** (Job gestartet, beendet mit Ergebnis und Dauer, Dienst gestoppt). Das Log gehört zum gewählten Runner; bei Grundüberwachung zeigt es das Journal seiner Unit.
 - Darunter die **Ausgabe des laufenden Schritts** mit den Farben aus dem Workflow. Jeder neue
   Schritt bekommt eine Trennzeile „Schritt 4/8 · Name“ (ohne Schrittliste von GitHub „Schritt 4/–“). Karte, Schritt-Pille über dem Log und Trennzeilen zeigen immer denselben Schritt. Fehlerzeilen sind rot hinterlegt.
 - Die neueste Zeile steht immer unten. **Anhalten** friert die Ansicht ein (neue Zeilen werden
@@ -93,6 +121,14 @@ Teil über der Schwelle wird orange.
   Im Log stehen die letzten 1 500 Zeilen.
 - **Umbrechen / Abschneiden** für lange Zeilen.
 - Ältere Ausgaben stehen im Runner (`_diag/pages`) und bei GitHub („Download log archive“).
+
+## Sprache
+
+Die Oberfläche gibt es auf Deutsch und Englisch. In Info › Darstellung › **Sprache** wählen Sie *Automatisch*, *Deutsch* oder *English*.
+„Automatisch“ folgt der ersten Sprache des Browsers: beginnt sie mit `de`, ist es Deutsch, **jede andere Sprache zeigt Englisch**.
+Die Wahl gilt nur für diesen Browser (`runner-monitor.sprache`). Log-Ausgaben, Befehle, Release-Notizen und das Handbuch bleiben unübersetzt.
+
+![Dasselbe Dashboard auf Englisch](bilder/dashboard-englisch.png)
 
 ## Getrennt
 

diff --git a/docs/handbuch/01-einrichtung-und-anmeldung.md b/docs/handbuch/01-einrichtung-und-anmeldung.md
@@ -1,6 +1,6 @@
 # 1 Einrichtung und Anmeldung
 
-**Stand: 29.10.2026 · Version 0.7.0 (Einrichtung in fünf Schritten aus Design 0.8.0)**
+**Stand: 29.10.2026 · Version 0.8.0 (in Arbeit)**
 
 ## Erster Aufruf
 
@@ -14,7 +14,7 @@ Adresse zur Einrichtung in fünf Schritten. Oben rechts lässt sich die Sprache 
 | **1 Code** – den achtstelligen Code aus dem Skript eingeben. Darüber steht, was auf der VM erkannt wurde (Monitor, Runner, Firewall). | ![](bilder/einrichtung-1-code.png) |
 | **2 Zugang** – Benutzername und Passwort. Mindestens 12 Zeichen, sonst keine Regeln; der Balken zeigt die Länge. | ![](bilder/einrichtung-2-zugang.png) |
 | **3 Runner** – alle Runner, die der Monitor auf der VM gefunden hat, mit Dienst, Sicherheitsgrad und Begründung. Je Fund: übernehmen (GitHub), Grundüberwachung oder ignorieren (noch nicht unterstützte Dienste), zuordnen oder ignorieren (unbekannte Dienste). „Neu erkennen“ sucht sofort neu. Ohne Fund: Runner einrichten, von Hand zuordnen oder nur die VM überwachen. | ![](bilder/einrichtung-3-runner.png) |
-| **4 Anbinden** (optional) – je übernommenem Runner ein nur lesendes Token. Für den GitHub-Runner Organisation und Fine-grained Token wie bisher; für andere Dienste trägt man die Zugangsdaten auf der VM ein (`einrichten.sh zugang <runner>`). „Verbindung prüfen“ zeigt, was ankommt; jeder Runner lässt sich überspringen. | ![](bilder/einrichtung-4-anbinden.png) |
+| **4 Anbinden** (optional) – je übernommenem Runner ein nur lesendes Token. Für den GitHub-Runner Organisation und Fine-grained Token wie bisher; für Forgejo, Gitea und GitLab tragen Sie Server, Organisation und Token nicht im Browser, sondern auf der VM ein: `sudo /opt/runner-monitor/aktuell/einrichten.sh zugang <runner>` (ohne Angabe zeigt der Befehl die erkannten Runner). Das Skript fragt nach Server, Organisation und Token und prüft die Verbindung (siehe [Einrichtung](../EINRICHTUNG.md)). „Verbindung prüfen“ zeigt, was ankommt; jeder Runner lässt sich überspringen. | ![](bilder/einrichtung-4-anbinden.png) |
 | **5 Fertig** – Zusammenfassung mit Zugang, Firewall und Stand je Runner, „Zum Monitor anmelden“ führt zur Anmeldung. | ![](bilder/einrichtung-5-fertig.png) |
 
 ## Anmelden

diff --git a/docs/handbuch/README.md b/docs/handbuch/README.md
@@ -1,13 +1,13 @@
 # Handbuch
 
-**Stand: 25.10.2026 · Version 0.7.0**
+**Stand: 29.10.2026 · Version 0.8.0 (in Arbeit)**
 
 | Kapitel | Inhalt |
 |---|---|
-| [1 Einrichtung und Anmeldung](01-einrichtung-und-anmeldung.md) | Erster Aufruf, Zugang anlegen, GitHub verbinden, Anmelden |
-| [2 Das Dashboard](02-dashboard.md) | Kopfzeile, Runner-Status, Workflows, Auslastung, Prozesse und Platten, Live-Log |
+| [1 Einrichtung und Anmeldung](01-einrichtung-und-anmeldung.md) | Erster Aufruf, Zugang anlegen, Runner erkennen, Dienst anbinden, Anmelden |
+| [2 Das Dashboard](02-dashboard.md) | Kopfzeile, mehrere Runner, Runner-Status, Jobs je Repository, Auslastung mit Zeitraum, Prozesse und Platten, Live-Log, Sprache |
 | [3 Meldungen und „Was tun?“](03-meldungen.md) | Welche Meldung was bedeutet und wo die Anleitung steht |
-| [4 Info & Hilfe](04-info-und-hilfe.md) | Updates, Darstellung, Anleitungen, GitHub-Verbindung, Fehler per E-Mail melden |
+| [4 Info & Hilfe](04-info-und-hilfe.md) | Runner, Verbindungen, Updates, Darstellung und Sprache, Anleitungen, Fehler und Ideen per E-Mail |
 
 Die Bilder zeigen Testdaten (erfundene Namen, Adressen aus 192.0.2.0/24). Neu aufnehmen:
 `node werkzeuge/bilder.mjs`.

diff --git a/CHANGELOG.md b/CHANGELOG.md
@@ -114,6 +114,11 @@ Format nach [Keep a Changelog](https://keepachangelog.com/de/1.1.0/), Versionen 
   Rückfall bestehen (#92).
 
 ### Geändert
+- Handbuch, Funktionsweise und Bildschirmfotos auf Design 0.8.0: Kapitel zu mehreren Runnern (Reiter, „+N“,
+  Grundüberwachung), Zeitraum der Auslastung, Sprache, Info › Runner und Verbindungen, Fehler/Idee per E-Mail
+  und `einrichten.sh zugang <runner>`; neue Bilder (`dashboard-mehrere-runner`, `dashboard-grundueberwachung`,
+  `info-runner`, `dashboard-englisch`), alle übrigen neu aufgenommen (`node werkzeuge/bilder.mjs`, nur Demo-Daten);
+  `docs/design/README.md` vollständig auf 0.8.0 abgeglichen (#101).
 - CI: Prüfungen laufen auch bei Pull Requests nach `develop` und bei Push auf `develop`/`main`;
   shellcheck wird bei Bedarf nachinstalliert, davor `bash -n` (#108).
 - Ein Token nimmt die Weboberfläche nur noch in der Einrichtung an (gültiger Einrichtungscode), nicht mehr

diff --git a/docs/handbuch/03-meldungen.md b/docs/handbuch/03-meldungen.md
@@ -1,10 +1,12 @@
 # 3 Meldungen und „Was tun?“
 
-**Stand: 25.10.2026 · Version 0.7.0**
+**Stand: 29.10.2026 · Version 0.8.0 (in Arbeit)**
 
 Probleme erscheinen oben in der Mitte der Kopfzeile. Es steht immer nur die wichtigste da,
 „+n weitere“ zeigt, dass es mehr gibt. **„Was tun?“** öffnet Info & Hilfe genau bei der
 passenden Anleitung; Anleitungen, die gerade zutreffen, tragen dort „jetzt aktiv“.
+
+Bei mehreren Runnern nennt die Meldung den Runner („runner-vm-02: Dienst gestoppt“). Betrifft sie einen anderen als den gewählten, wechselt der Knopf **Anzeigen** zu ihm. Meldungen zum Dienst nennen ihn im Titel („Forgejo nicht erreichbar“); die Anleitung dazu passt zum Dienst. Einige Texte sagen unten „GitHub“, gelten aber sinngemäß für Forgejo, Gitea und GitLab.
 
 ![Was tun bei gestopptem Dienst](bilder/was-tun-gestoppt.png)
 

diff --git a/docs/FUNKTIONSWEISE.md b/docs/FUNKTIONSWEISE.md
@@ -1,6 +1,6 @@
 # Wie der Runner-Monitor funktioniert
 
-**Stand: 29.10.2026 · Version 0.7.0 (Runner-Erkennung, Anbieter-Adapter und Einrichtung aus 0.8.0 in Arbeit)**
+**Stand: 29.10.2026 · Version 0.8.0 (in Arbeit)**
 
 Diese Seite erklärt den Aufbau: welche Teile es gibt, woher jede Zahl im Dashboard kommt,
 welche Dateien wo liegen und wer was lesen und schreiben darf. Bedienung: [Handbuch](handbuch/README.md).

diff --git a/docs/handbuch/04-info-und-hilfe.md b/docs/handbuch/04-info-und-hilfe.md
@@ -7,6 +7,8 @@ Klick daneben.
 
 ![Info & Hilfe](bilder/info-hilfe.png)
 
+![Abschnitt Runner mit drei Runnern (GitHub, Forgejo, unbekannt)](bilder/info-runner.png)
+
 Das Blatt bleibt beim Lesen ruhig stehen: Nur die Werte darin aktualisieren sich, Position und
 aufgeklappte Anleitung bleiben.
 
